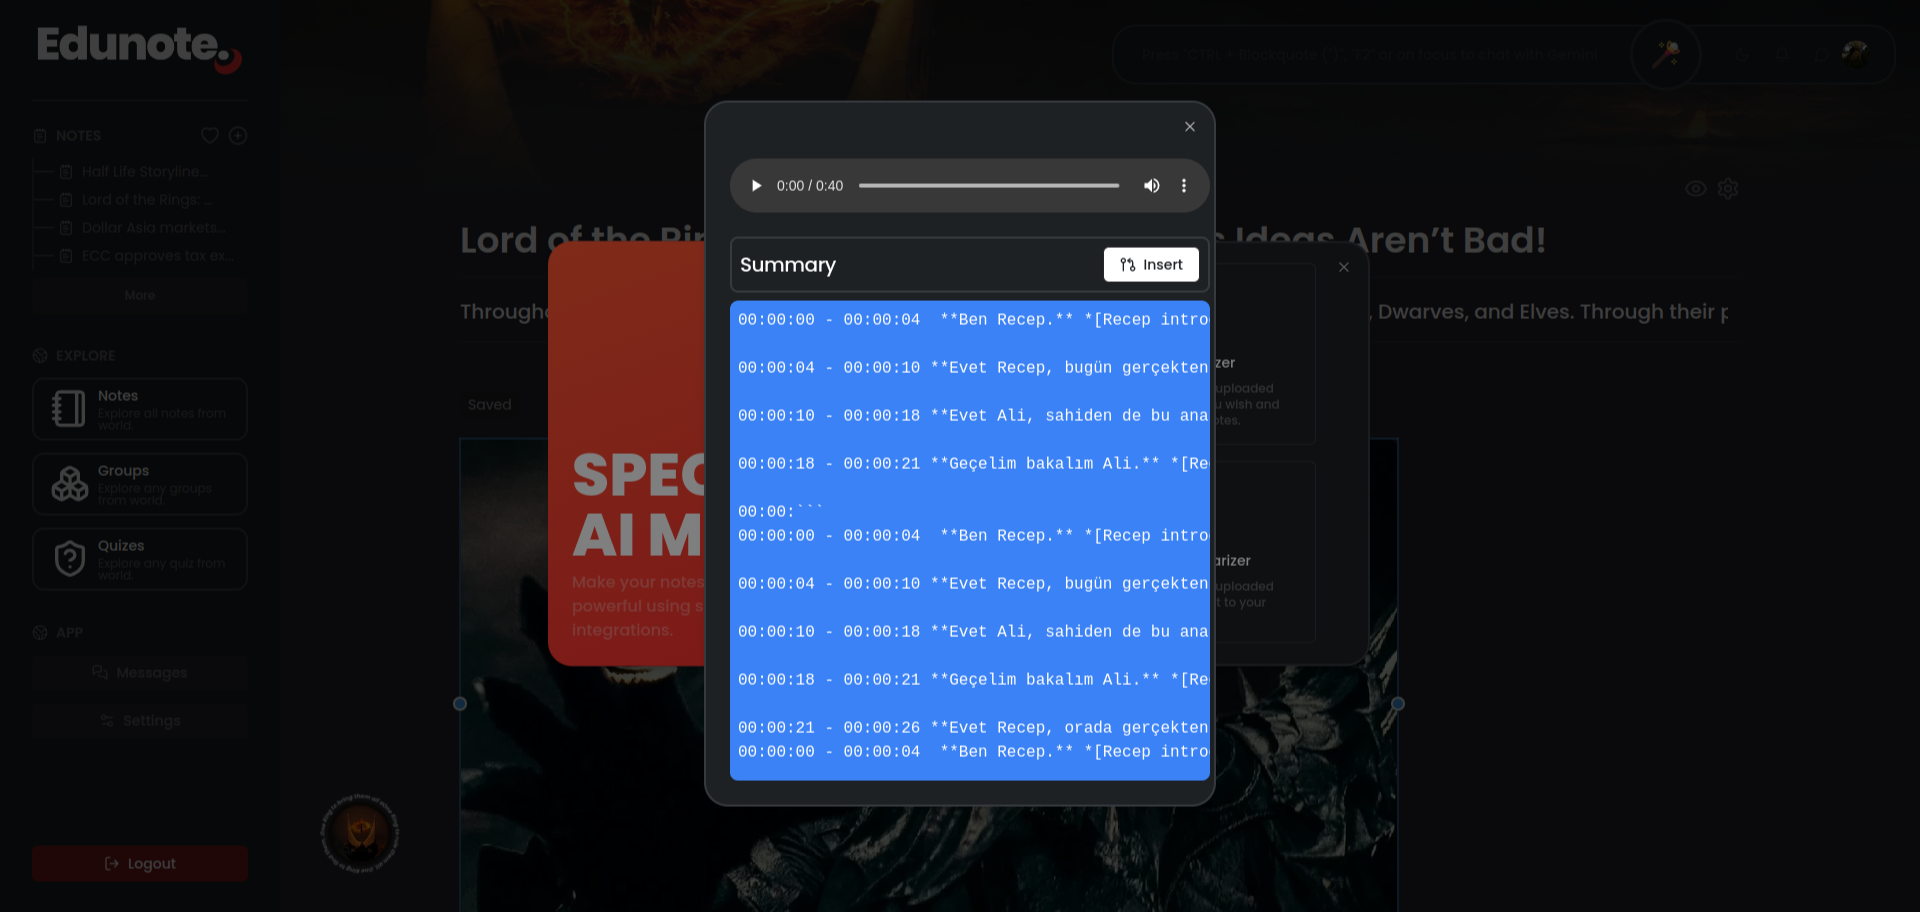
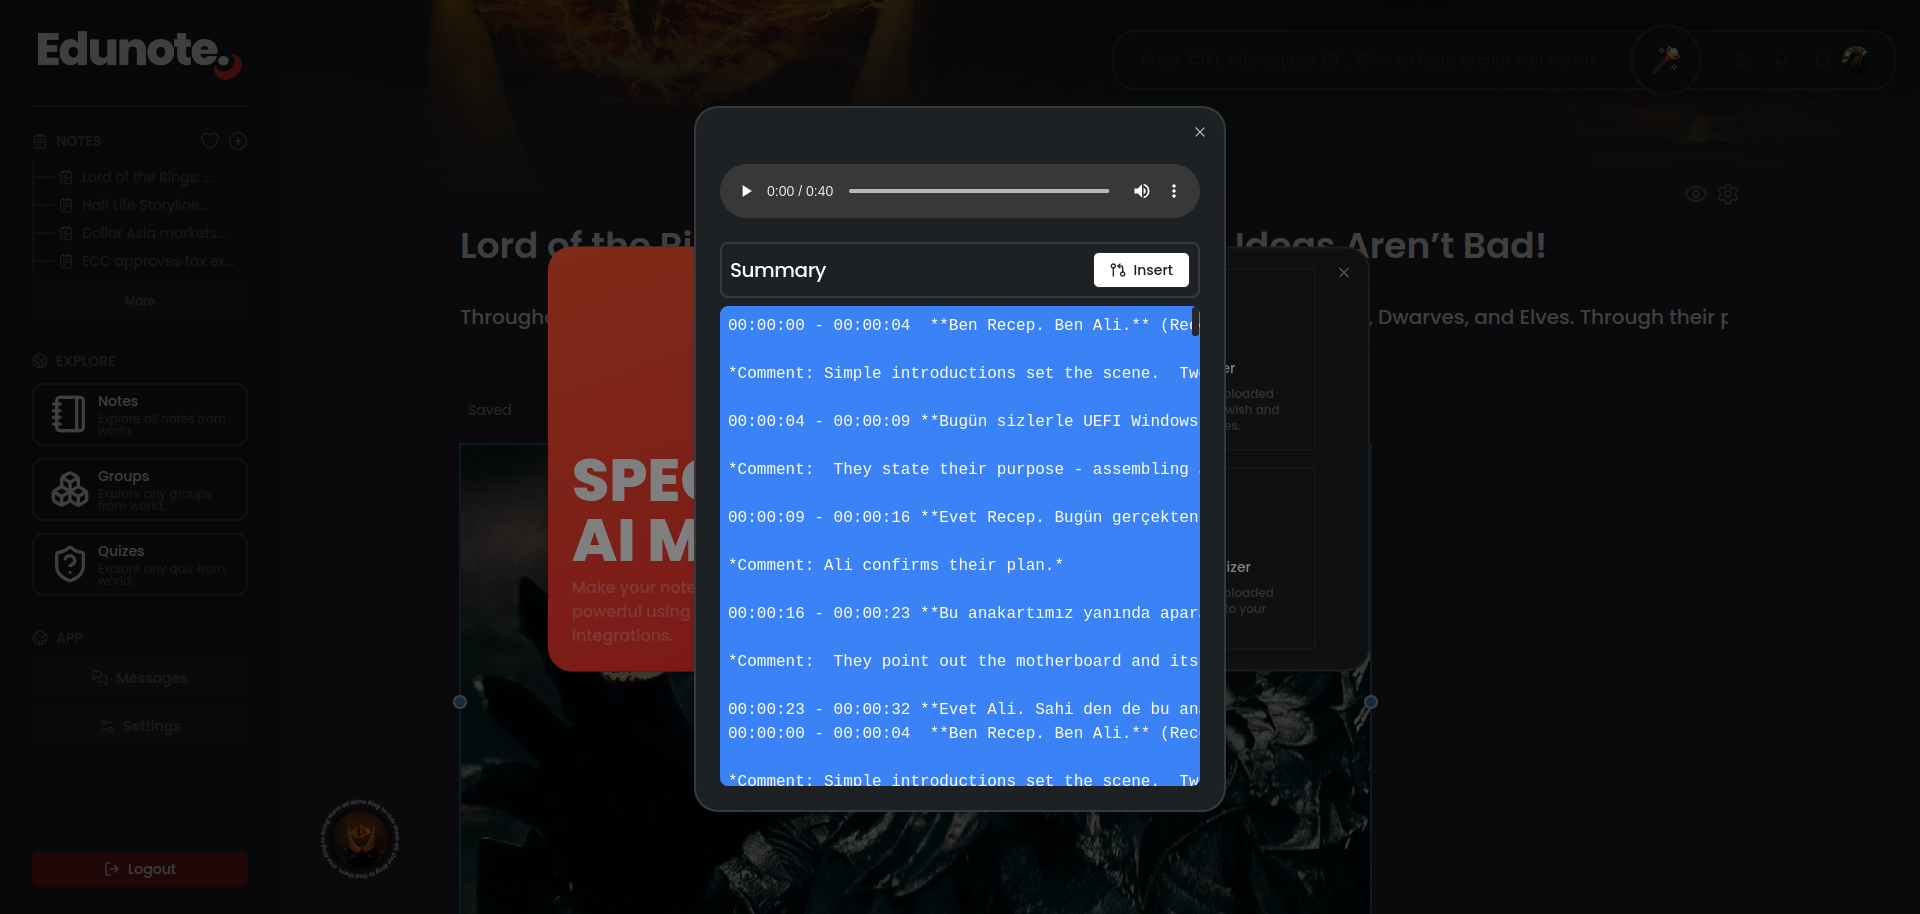
Update UI

diff --git a/app/src/components/ui/dialog.tsx b/app/src/components/ui/dialog.tsx
@@ -39,7 +39,7 @@ const DialogContent = React.forwardRef<
       ref={ref}
       aria-describedby={undefined}
       className={cn(
-        "fixed left-[50%] top-[50%] z-50 grid w-full max-w-lg translate-x-[-50%] translate-y-[-50%] gap-4 border bg-background p-6 shadow-lg duration-200 data-[state=open]:animate-in data-[state=closed]:animate-out data-[state=closed]:fade-out-0 data-[state=open]:fade-in-0 data-[state=closed]:zoom-out-95 data-[state=open]:zoom-in-95 data-[state=closed]:slide-out-to-left-1/2 data-[state=closed]:slide-out-to-top-[48%] data-[state=open]:slide-in-from-left-1/2 data-[state=open]:slide-in-from-top-[48%] sm:rounded-3xl",
+        "fixed left-[50%] top-[50%] z-50 grid w-full translate-x-[-50%] translate-y-[-50%] gap-4 border bg-background p-6 shadow-lg duration-200 data-[state=open]:animate-in data-[state=closed]:animate-out data-[state=closed]:fade-out-0 data-[state=open]:fade-in-0 data-[state=closed]:zoom-out-95 data-[state=open]:zoom-in-95 data-[state=closed]:slide-out-to-left-1/2 data-[state=closed]:slide-out-to-top-[48%] data-[state=open]:slide-in-from-left-1/2 data-[state=open]:slide-in-from-top-[48%] sm:rounded-3xl",
         className
       )}
       {...props}

diff --git a/app/src/components/editor/specialized-ai/index.tsx b/app/src/components/editor/specialized-ai/index.tsx
@@ -94,7 +94,7 @@ const SpecializedAI: React.FC<SpecializedAIProps> = ({ note }) => {
             </Button>
           </div>
         </DialogTrigger>
-        <DialogContent className="sm:max-w-[425px] md:max-w-[820px]  bg-foreground flex rounded-3xl p-1 border-2 border-primary">
+        <DialogContent className="max-w-lg sm:max-w-[425px] md:max-w-[820px]  bg-foreground flex rounded-3xl p-1 border-2 border-primary">
           <DialogHeader className="h-[425px] bg-aiButtonGradient w-[320px] relative flex justify-end items-end p-6 rounded-l-3xl -mt-[6px] -mb-[6px] -ml-2">
             <h3 className="text-white font-extrabold uppercase text-6xl text-left">
               Special AI Mod

diff --git a/app/src/components/editor/specialized-ai/image/index.tsx b/app/src/components/editor/specialized-ai/image/index.tsx
@@ -123,7 +123,7 @@ const SpecializedImageFile: React.FC<SpecializedAIProps> = ({ note }) => {
       </DialogTrigger>
       <DialogContent
         className={cn(
-          "max-w-auto w-fit h-fit min-w-[480px] flex duration-500 transition-all bg-foreground p-6 border-2 border-primary",
+          "max-w-lg max-w-auto w-fit h-fit min-w-[480px] flex duration-500 transition-all bg-foreground p-6 border-2 border-primary",
           completion && !isLoading && "w-auto max-w-auto max-w-[99900px]"
         )}
       >

diff --git a/app/src/components/editor/specialized-ai/audio/index.tsx b/app/src/components/editor/specialized-ai/audio/index.tsx
@@ -125,7 +125,7 @@ const SpecializedAudioIntegration: React.FC<SpecializedAIProps> = ({
       </DialogTrigger>
       <DialogContent
         className={cn(
-          "min-w-[480px] flex duration-500 transition-all bg-foreground p-6 border-2 border-primary",
+          "max-w-lg min-w-[480px] flex duration-500 transition-all bg-foreground p-6 border-2 border-primary",
           completion && !isLoading && "w-auto max-h-[720px]"
         )}
       >

diff --git a/app/src/components/editor/editor-settings.tsx b/app/src/components/editor/editor-settings.tsx
@@ -190,7 +190,7 @@ const EditorSettings: React.FC<EditorSettingsProps> = ({ note }) => {
       <DialogTrigger className="text-white/30 hover:text-white z-30">
         <Settings />
       </DialogTrigger>
-      <DialogContent>
+      <DialogContent className="max-w-lg">
         <DialogHeader>
           <DialogTitle className="text-white">Note Settings</DialogTitle>
           <DialogDescription>Manage your note settings.</DialogDescription>

diff --git a/app/src/components/editor/specialized-ai/pdf/index.tsx b/app/src/components/editor/specialized-ai/pdf/index.tsx
@@ -128,7 +128,7 @@ const SpecializedPdfIntegration: React.FC<SpecializedAIProps> = ({ note }) => {
       </DialogTrigger>
       <DialogContent
         className={cn(
-          "flex duration-500 transition-all bg-foreground min-w-[480px] border-2 border-primary",
+          "max-w-lg flex duration-500 transition-all bg-foreground min-w-[480px] border-2 border-primary",
           submitted && "w-[1024px] max-w-max"
         )}
       >

diff --git a/app/src/components/editor/specialized-ai/youtube/index.tsx b/app/src/components/editor/specialized-ai/youtube/index.tsx
@@ -104,7 +104,7 @@ const SpecializedYoutubeIntegration: React.FC<SpecializedAIProps> = ({
       </DialogTrigger>
       <DialogContent
         className={cn(
-          "flex duration-500 transition-all bg-foreground border-2 border-primary max-h-[720px]"
+          "max-w-lg flex duration-500 transition-all bg-foreground border-2 border-primary max-h-[720px]"
         )}
       >
         {completion ? (

diff --git a/app/src/components/editor/note-delete-dialog.tsx b/app/src/components/editor/note-delete-dialog.tsx
@@ -15,7 +15,7 @@ export function DeleteNote() {
     <Dialog>
       <DialogTrigger asChild>
       </DialogTrigger>
-      <DialogContent className="sm:max-w-md">
+      <DialogContent className="sm:max-w-md p-2">
         <DialogHeader>
           <DialogTitle>Are you sure want to delete?</DialogTitle>
           <DialogDescription>
